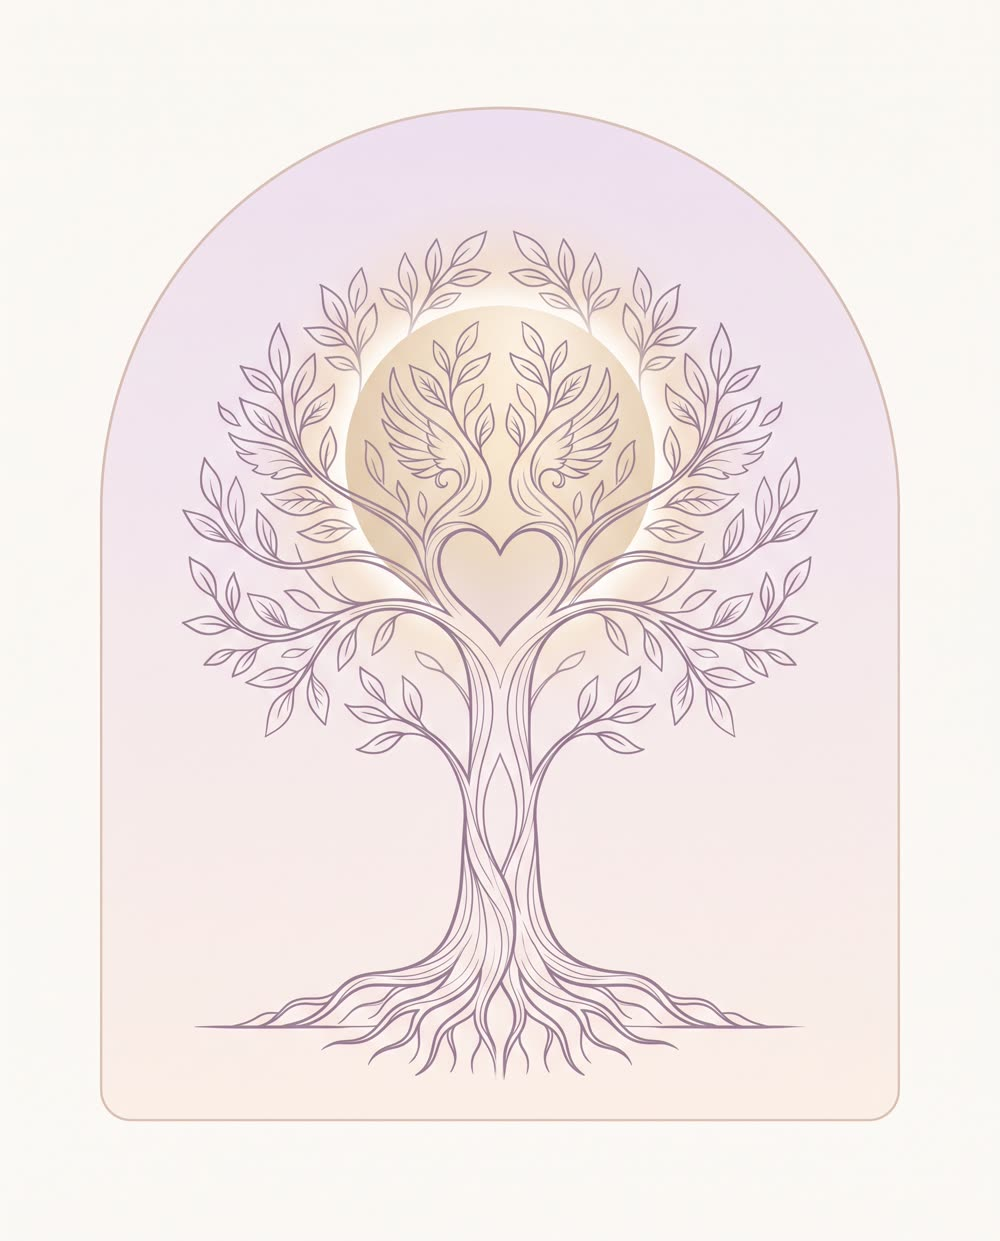
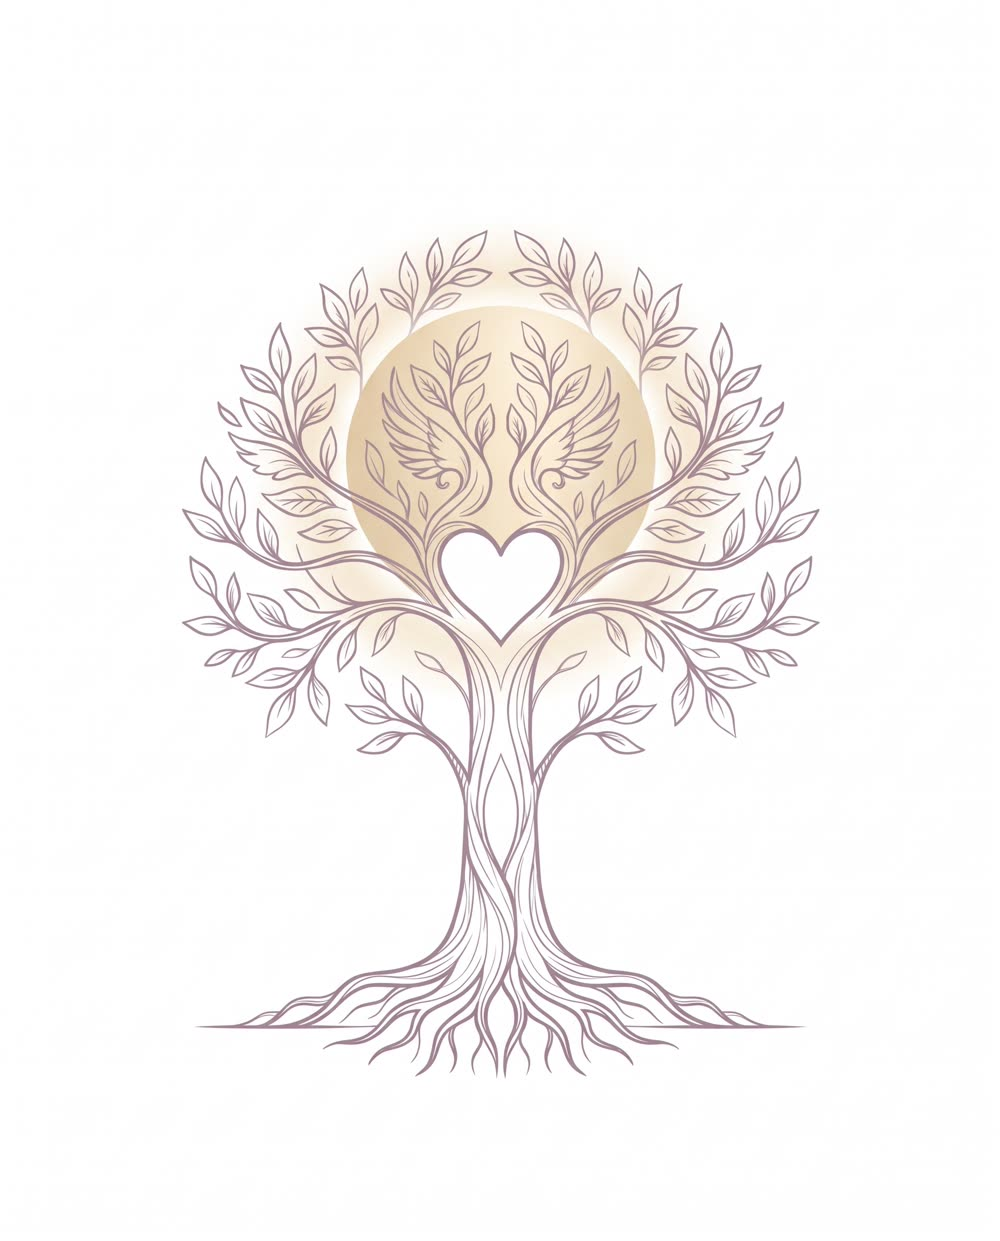
Új hero illusztráció, mozgás nélkül; termékre a címhez ugrunk
A hero képe a megrendelő új életfa-illusztrációjára cserélve, webre
tömörítve. A lebegő animáció és az egérkövetés lekerült róla, a kép
egy helyben marad.

A termékkártyákról érkezve a nézet a termék címéhez áll be, nem az oldal
tetejére — a ragadós fejléc magasságát is figyelembe véve.

Changed region(s): [[0.093, 0.0612, 0.899, 0.9186]]

diff --git a/index.html b/index.html
@@ -297,6 +297,9 @@ select.sel{width:100%;border:1px solid var(--line);background:var(--surface);col
 .pd{display:grid;grid-template-columns:1fr 1fr;gap:clamp(26px,5vw,52px);align-items:start;}
 @media (max-width:860px){.pd{grid-template-columns:1fr;}}
 .pd-buy{display:flex;flex-direction:column;gap:14px;border-top:1px solid var(--line);padding-top:20px;margin-top:6px;}
+/* a ragadós fejléc és a kiemelt címke ne takarja a terméknevet ugráskor */
+.pd h1{scroll-margin-top:118px;}
+@media (max-width:640px){.pd h1{scroll-margin-top:102px;}}
 
 .info-strip{border-top:1px solid var(--line);padding-top:20px;display:flex;gap:15px;align-items:flex-start;color:var(--ink-faint);font-size:.86rem;}
 .info-strip svg{width:19px;height:19px;color:var(--gold);flex:none;margin-top:3px;}
@@ -644,7 +647,7 @@ html.js [data-reveal].in{opacity:1;transform:none;transition:opacity .7s var(--e
 
       <div class="hero-art">
         <span class="halo" aria-hidden="true"></span>
-        <img class="hero-img float" src="images/hero-eletfa.jpg" width="1000" height="1241"
+        <img class="hero-img" src="images/hero-eletfa.jpg" width="1000" height="1241"
              alt="Életfa illusztráció: szív alakú lombkorona, angyalszárnyak és aranyló fénykör">
       </div>
     </section>
@@ -2289,9 +2292,15 @@ html.js [data-reveal].in{opacity:1;transform:none;transition:opacity .7s var(--e
     });
     var page = document.getElementById('page-' + name);
     if(scroll){
-      window.scrollTo({top:0, behavior:'auto'});
-      /* beágyazott nézetben a window.scrollTo nem mozdítja a külső lapot */
-      try{ document.body.scrollIntoView({block:'start'}); }catch(e){ /* régi böngésző: marad a scrollTo */ }
+      /* termékoldalon a termék címéhez, máshol a lap tetejére */
+      var anchor = (name.indexOf('termek-') === 0 && page) ? page.querySelector('.pd h1') : null;
+      if(anchor){
+        anchor.scrollIntoView({block:'start'});
+      } else {
+        window.scrollTo({top:0, behavior:'auto'});
+        /* beágyazott nézetben a window.scrollTo nem mozdítja a külső lapot */
+        try{ document.body.scrollIntoView({block:'start'}); }catch(e){ /* régi böngésző: marad a scrollTo */ }
+      }
     }
     if(page) bindReveals(page);
     setupClamps();
@@ -2344,16 +2353,6 @@ html.js [data-reveal].in{opacity:1;transform:none;transition:opacity .7s var(--e
       ticking = false;
     });
   }, {passive:true});
-
-  /* ---------- hero parallaxa ---------- */
-  var heroArt = document.querySelector('#page-home .hero-art');
-  if(heroArt && !reduced && window.matchMedia('(pointer:fine)').matches){
-    window.addEventListener('mousemove', function(e){
-      var x = (e.clientX / window.innerWidth - .5) * 10;
-      var y = (e.clientY / window.innerHeight - .5) * 10;
-      heroArt.style.transform = 'translate3d(' + x + 'px,' + y + 'px,0)';
-    }, {passive:true});
-  }
 
   /* ---------- mobil menü ---------- */
   var burger = document.getElementById('burger');
